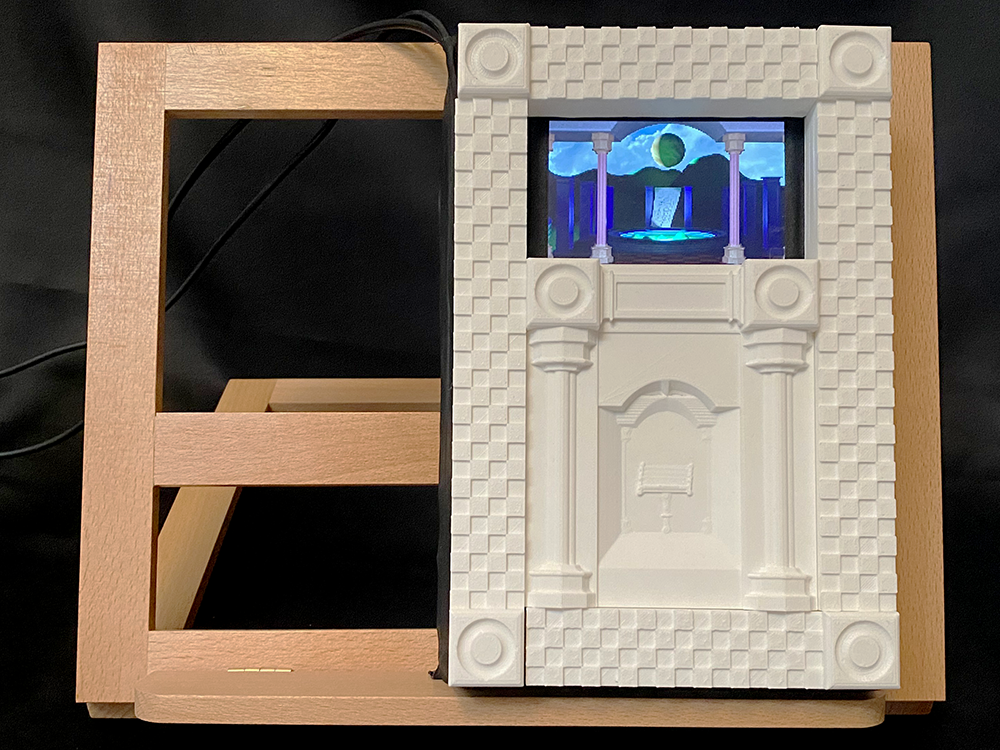
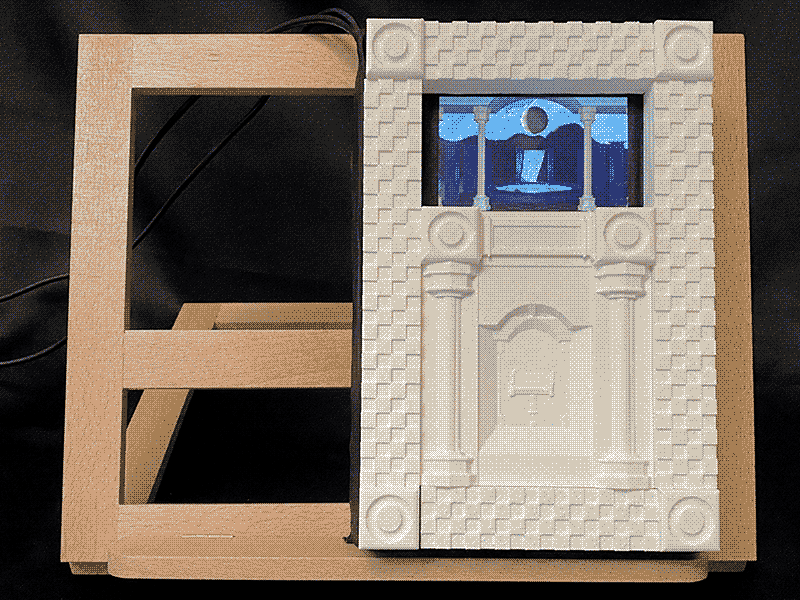
dithered images added

Changed region(s): [[0.0, 0.0, 0.9688, 0.99], [0.9688, 0.54, 1.0, 0.57], [0.9688, 0.48, 1.0, 0.51]]

diff --git a/index.html b/index.html
@@ -70,14 +70,14 @@
       <div class="project">
         <h3>Illuminated Manuscript</h3>
         <div class="image-container">
-          <img src="images/Illuminated.jpg" alt="Illuminated manuscript projection">
+          <img src="images/Illuminated.png" alt="Illuminated manuscript projection">
         </div>
         <p>Projection mapping illuminates a physical book with digital light, transforming it into an animated text.</p>
       </div>
       <div class="project">
         <h3>Erber Grene</h3>
         <div class="image-container">
-          <img src="images/erberGrene.jpg" alt="Projection mapping on church altar">
+          <img src="images/erberGrene.png" alt="Projection mapping on church altar">
         </div>
         <p>A site-specific video installation projecting imagery inspired by a 14th Century poem onto church
           architecture.</p>
@@ -109,7 +109,7 @@
       <div class="project">
         <h3>Technoshrine</h3>
         <div class="image-container">
-          <img src="images/technoshrine.jpg" alt="">
+          <img src="images/technoshrine.png" alt="">
         </div>
         <p>A sculptural installation incorporating machined parts and miniature computing to produce contemporary
           devotional altars for the religion of technology.</p>
